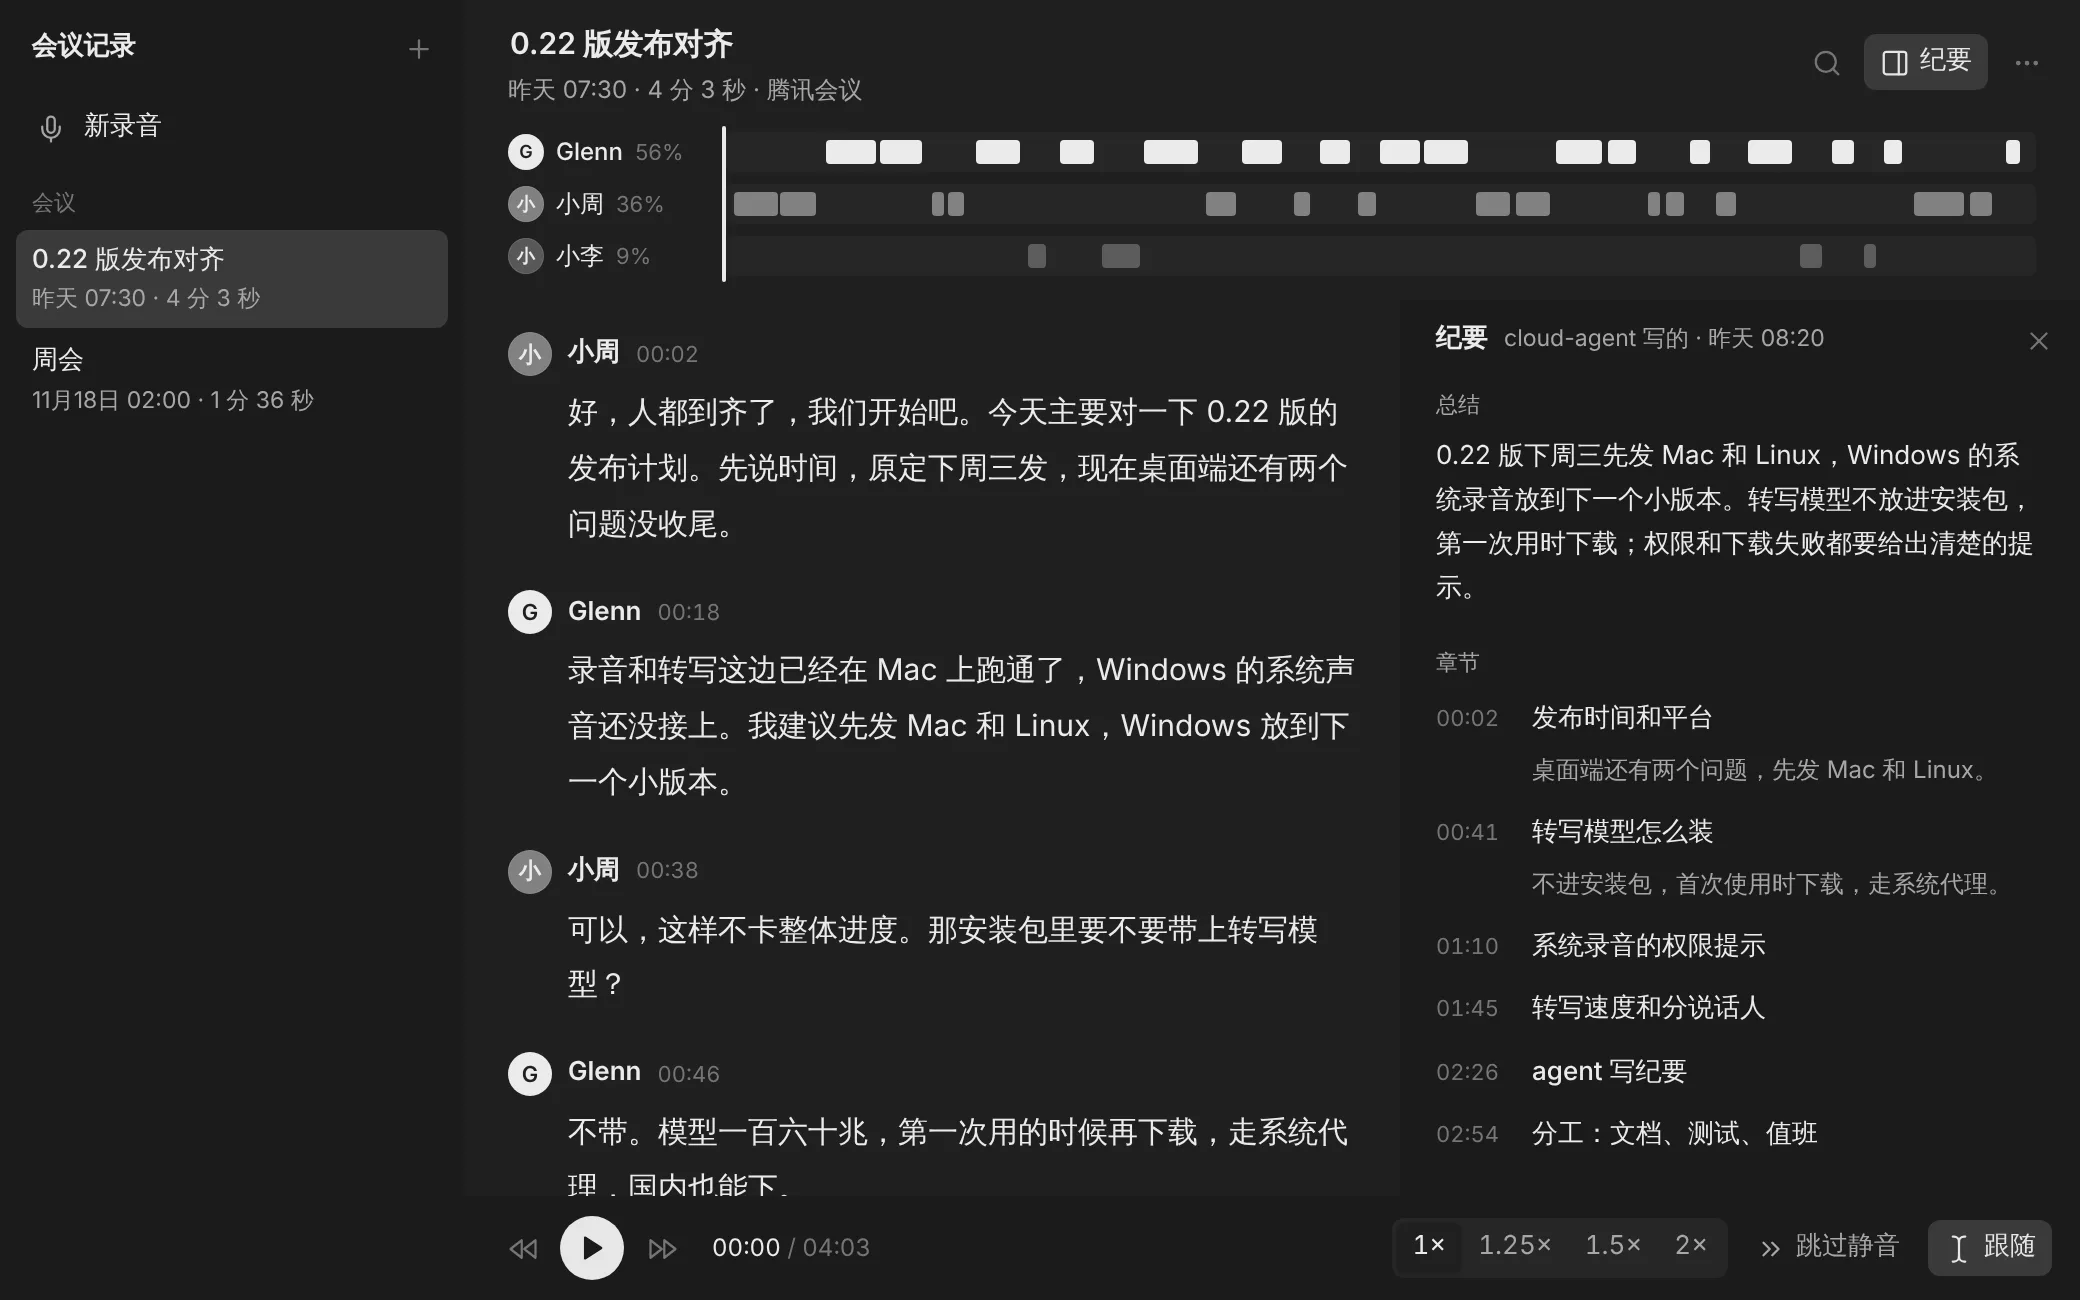
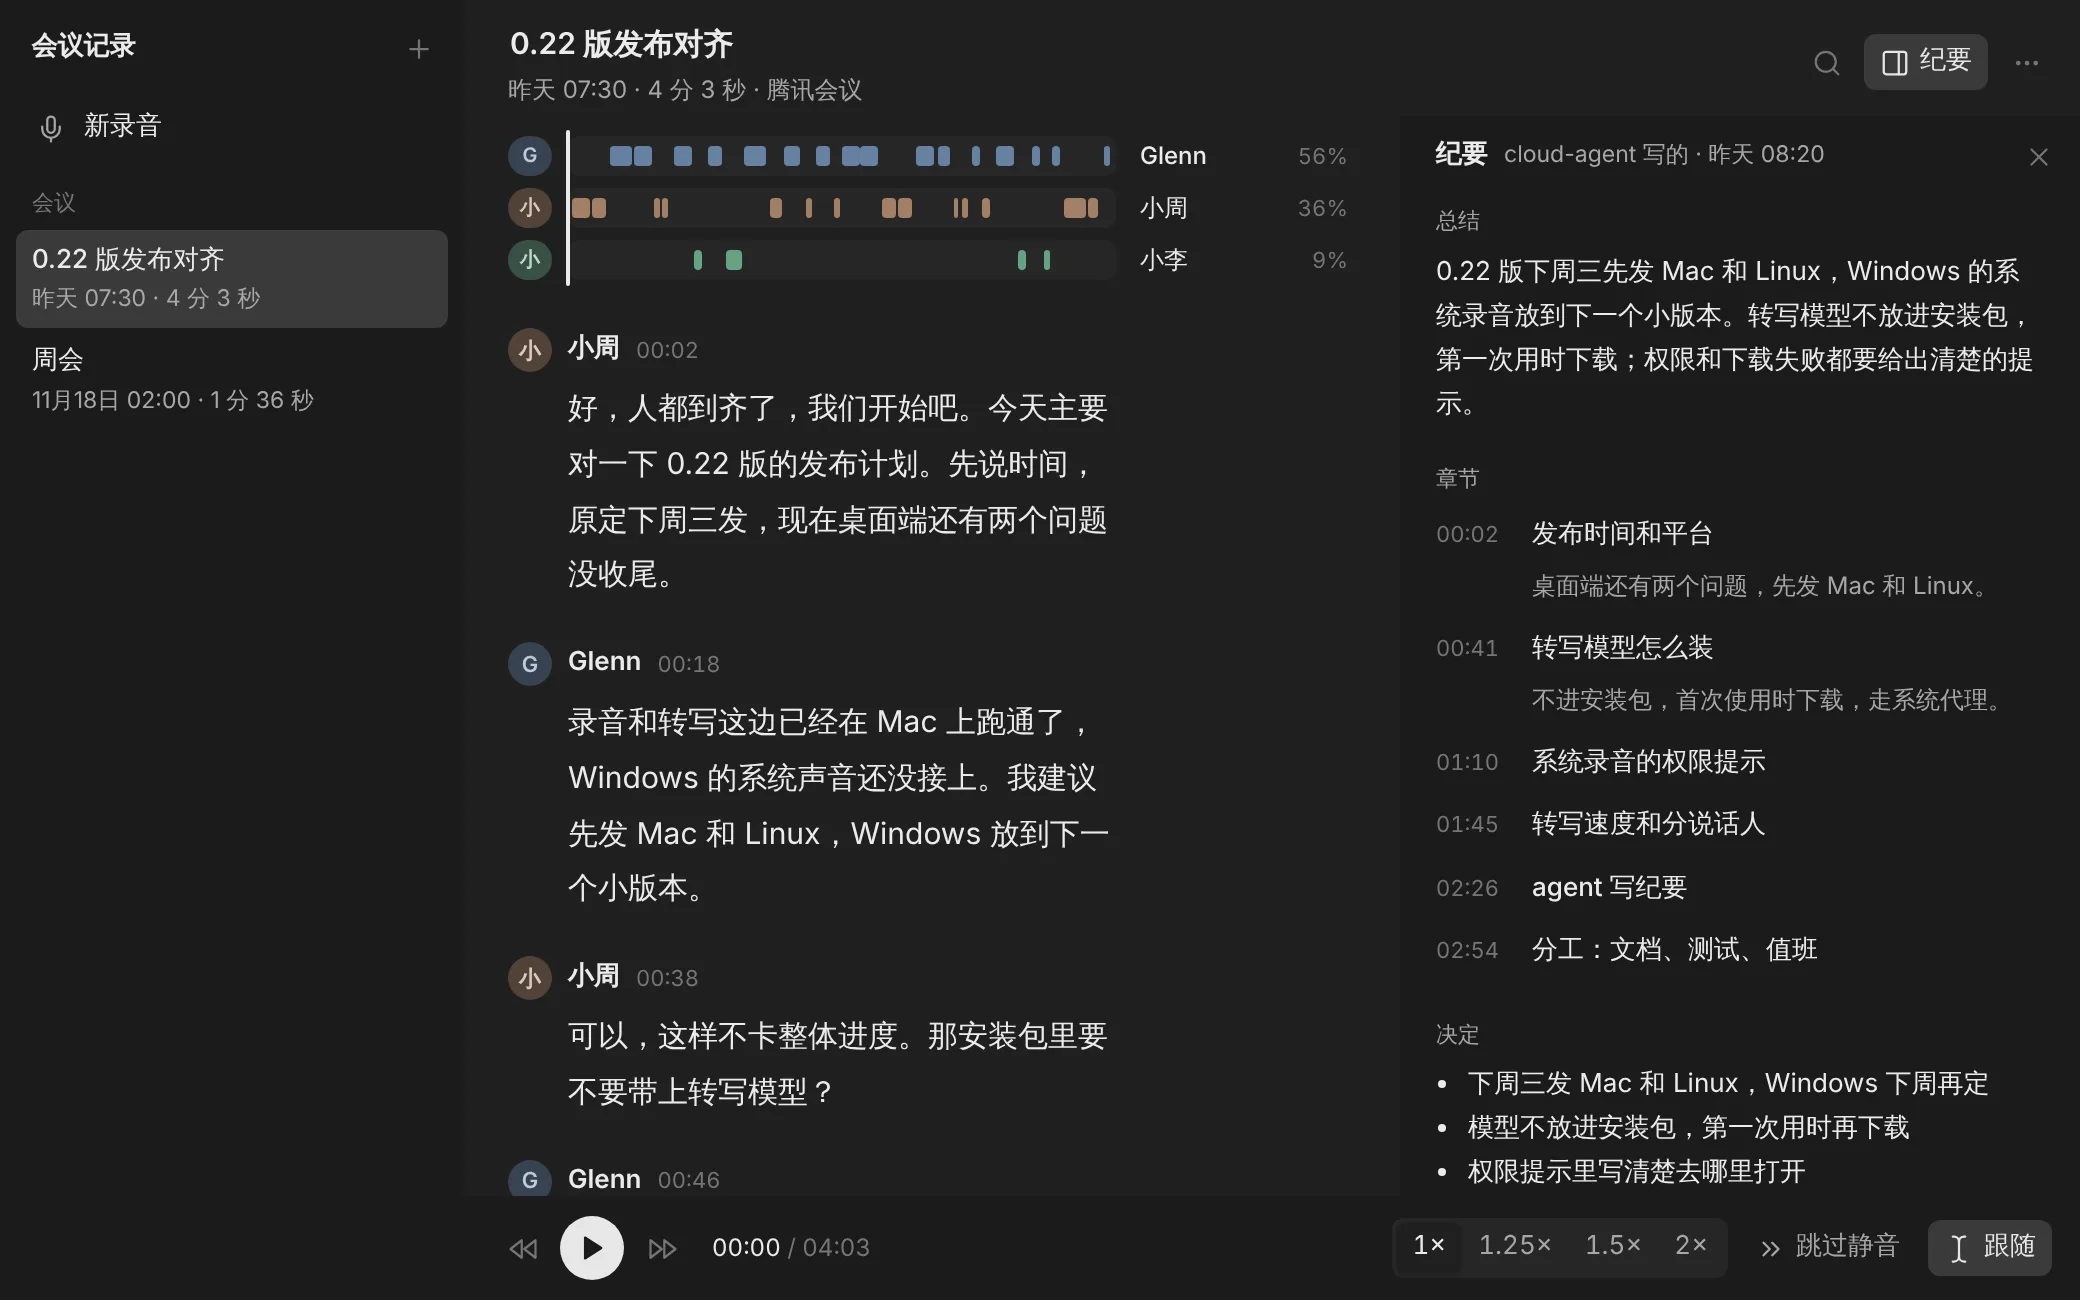
会议记录 1.3.0: a quiet colour for each speaker; the timeline lined up with the text
Speakers are told apart by colour again, but quiet ones (a dusty blue for
the person recording; clay, sage, mauve, sand, teal… for the others),
the same on their face and their lane, a step darker in the dark.

The timeline now sits in the transcript's column and stays on top as it
scrolls: faces in the column of the paragraphs' faces, lanes from where
the text starts to where it ends, names and shares at the end. With the
notes open, both narrow together.

Claude-Session: https://claude.ai/code/session_01CewNoAFbrSSvGsNNKPnVJH

diff --git a/templates/src/meeting/main.tsx b/templates/src/meeting/main.tsx
@@ -21,7 +21,7 @@ import { myco, save } from "../_lib/myco";
 import type { OSAudioSource } from "../_lib/myco";
 import { os, osState, osStateText, useOS, formatBytes } from "../_lib/os";
 import { Popover, rectOf } from "../_lib/ui";
-import { clock, kit, length, meetingList, meetingRank, meetings, num, segments, segmentsOf, shade, speakerKeys, speakerName, speakerOf, when, type Meeting, type Notes, type Track } from "./model";
+import { clock, kit, length, meetingList, meetingRank, meetings, num, segments, segmentsOf, hueOf, speakerKeys, speakerName, speakerOf, when, type Meeting, type Notes, type Track } from "./model";
 import {
   checkSpeech, clearRecordError, installError, installSpeech, installing, isWaiting, lastRecordError, pauseRecording, recording,
   speech, startRecording, stopRecording, stopTranscribing, transcribe, transcribing, useEngine, splitVoices, splitting, askForNotes, canAsk,
@@ -313,13 +313,11 @@ function TitleInput({ id, m, center }: { id: string; m: Meeting; center?: boolea
   );
 }
 
-/** A speaker's face: the first character of the name, in the speaker's grey. */
+/** A speaker's face: the first character of the name, in the speaker's quiet colour. */
 function Face({ m, t, size }: { m: Meeting; t: string; size?: number }) {
   const name = speakerName(m, t);
-  const g = shade(t);
   return (
-    <i className="mt-face" aria-hidden
-      style={{ background: `color-mix(in srgb, var(--fg) ${g}%, var(--bg))`, color: g >= 55 ? "var(--bg)" : "var(--fg)", ...(size ? { width: size, height: size, fontSize: size * 0.5 } : {}) }}>
+    <i className="mt-face" aria-hidden style={{ ["--h" as string]: hueOf(t), ...(size ? { width: size, height: size, fontSize: size * 0.5 } : {}) }}>
       {[...name][0] || "?"}
     </i>
   );
@@ -520,13 +518,15 @@ function MeetingView({ id, host, onDeleted }: { id: string; host: string; onDele
         )}
       </header>
 
-      {segs.length > 0 && (
-        <Timeline m={m} segs={segs} duration={duration} speakers={speakers} talk={talk} totalTalk={totalTalk} now={player ? player.time : -1}
-          hits={hits} hitId={hitId} only={only} setOnly={setOnly} onSeek={player ? (t) => player.seek(t) : undefined} />
-      )}
 
       <div className="mt-content">
       <div className="mt-body" ref={body}>
+        {segs.length > 0 && (
+          <div className="mt-tl-wrap">
+            <Timeline m={m} segs={segs} duration={duration} speakers={speakers} talk={talk} totalTalk={totalTalk} now={player ? player.time : -1}
+              hits={hits} hitId={hitId} only={only} setOnly={setOnly} onSeek={player ? (t) => player.seek(t) : undefined} />
+          </div>
+        )}
         <div className="mt-doc">
           {tx && <TranscribingRow />}
           {!tx && splitting === id && <div className="mt-alert"><Loader2 className="ico spin" /><span className="mt-alert-grow">正在分说话人</span><button type="button" className="btn" onClick={stopTranscribing}>停止</button></div>}
@@ -611,29 +611,32 @@ function Timeline({ m, segs, duration, speakers, talk, totalTalk, now, hits, hit
   const hitSet = new Set(hits);
   return (
     <div className="mt-timeline">
-      <div className="mt-tl-names">
-        {speakers.map((t) => (
-          <button key={t} type="button" className={`mt-tl-name${only === t ? " is-on" : ""}${only && only !== t ? " is-off" : ""}`} onClick={() => setOnly(only === t ? null : t)}
-            title={only === t ? "显示所有人" : `只看${speakerName(m, t)}说的`}>
-            <Face m={m} t={t} size={18} /><b>{speakerName(m, t)}</b><em>{totalTalk ? Math.round(((talk[t] || 0) / totalTalk) * 100) : 0}%</em>
-          </button>
-        ))}
+      <div className="mt-tl-faces">
+        {speakers.map((t) => <Face key={t} m={m} t={t} size={20} />)}
       </div>
       <div ref={lanes} className={`mt-tl-lanes${onSeek ? "" : " is-still"}`}
         onPointerDown={(e) => { if (!onSeek) return; (e.currentTarget as Element).setPointerCapture(e.pointerId); onSeek(at(e.clientX)); }}
         onPointerMove={(e) => { setHover(at(e.clientX)); if (onSeek && e.buttons) onSeek(at(e.clientX)); }}
         onPointerLeave={() => setHover(null)}>
         {speakers.map((t) => (
-          <div key={t} className={`mt-lane${only && only !== t ? " is-off" : ""}`}>
+          <div key={t} className={`mt-lane${only && only !== t ? " is-off" : ""}`} style={{ ["--h" as string]: hueOf(t) }}>
             {segs.filter((s) => speakerOf(s.data) === t).map((s) => {
               const a = pct(num(s.data.start)), b = pct(num(s.data.end));
-              return <i key={s.id} className="mt-lane-seg" style={{ left: `${a}%`, width: `max(2px, ${b - a}%)`, background: `color-mix(in srgb, var(--fg) ${Math.max(30, shade(t))}%, var(--bg))` }} />;
+              return <i key={s.id} className="mt-lane-seg" style={{ left: `${a}%`, width: `max(2px, ${b - a}%)` }} />;
             })}
           </div>
         ))}
         {segs.filter((s) => hitSet.has(s.id)).map((s) => <b key={s.id} className={`mt-tl-hit${s.id === hitId ? " is-on" : ""}`} style={{ left: `${pct(num(s.data.start))}%` }} />)}
         {now >= 0 && <span className="mt-tl-head" style={{ left: `${pct(now)}%` }} />}
         {hover !== null && <span className="mt-tl-tip" style={{ left: `${pct(hover)}%` }}>{clock(hover)}</span>}
+      </div>
+      <div className="mt-tl-names">
+        {speakers.map((t) => (
+          <button key={t} type="button" className={`mt-tl-name${only === t ? " is-on" : ""}${only && only !== t ? " is-off" : ""}`} onClick={() => setOnly(only === t ? null : t)}
+            title={only === t ? "显示所有人" : `只看${speakerName(m, t)}说的`}>
+            <b>{speakerName(m, t)}</b><em>{totalTalk ? Math.round(((talk[t] || 0) / totalTalk) * 100) : 0}%</em>
+          </button>
+        ))}
       </div>
     </div>
   );

diff --git a/templates/src/meeting/meeting.css b/templates/src/meeting/meeting.css
@@ -92,7 +92,8 @@
 
 /* faces: one letter, in grey */
 .mt-face { display: inline-grid; place-items: center; width: 22px; height: 22px; flex: none; border-radius: 50%; font-size: 11px; font-style: normal; font-weight: 600; line-height: 1; }
-.mt-face { box-shadow: inset 0 0 0 0.5px color-mix(in srgb, var(--fg) 12%, transparent); }
+.mt-face { --h: 214; background: hsl(var(--h) 30% 88%); color: hsl(var(--h) 34% 30%); }
+@media (prefers-color-scheme: dark) { .mt-face { background: hsl(var(--h) 18% 27%); color: hsl(var(--h) 34% 80%); } }
 
 /* a meeting */
 .mt-meeting { flex: 1; min-height: 0; display: flex; flex-direction: column; }
@@ -107,18 +108,23 @@
 .mt-find-n { padding: 0 4px; font-size: 11px; color: var(--muted); }
 .mt-find .icon-btn { width: 22px; height: 22px; }
 
-.mt-timeline { display: grid; grid-template-columns: auto 1fr; gap: 6px 14px; align-items: center; padding: 8px 22px 12px; }
-.mt-tl-names { display: flex; flex-direction: column; gap: 6px; }
-.mt-tl-name { display: flex; align-items: center; gap: 6px; height: 20px; padding: 0 6px 0 0; border: 0; border-radius: 6px; background: none; color: var(--fg); font-size: 12px; text-align: left; }
-.mt-tl-name b { font-weight: 500; max-width: 96px; overflow: hidden; text-overflow: ellipsis; white-space: nowrap; }
-.mt-tl-name em { font-style: normal; color: var(--faint); font-size: 11px; }
-.mt-tl-name:hover b { text-decoration: underline; }
+/* who spoke when: faces in the transcript's face column, lanes from where its text starts, names at the end */
+.mt-tl-wrap { position: sticky; top: 0; z-index: 2; background: var(--bg); }
+.mt-timeline { display: flex; gap: 8px; max-width: 800px; padding: 10px 22px 12px; }
+.mt-tl-faces, .mt-tl-names { display: flex; flex-direction: column; gap: 6px; flex: none; }
+.mt-tl-faces .mt-face { width: 22px !important; height: 20px !important; border-radius: 10px; }
+.mt-tl-names { width: 112px; }
+.mt-tl-name { display: flex; align-items: center; gap: 6px; height: 20px; padding: 0 4px; border: 0; border-radius: 6px; background: none; color: var(--fg); font-size: 12px; text-align: left; }
+.mt-tl-name b { flex: 1; min-width: 0; font-weight: 500; overflow: hidden; text-overflow: ellipsis; white-space: nowrap; }
+.mt-tl-name em { font-style: normal; color: var(--faint); font-size: 11px; font-variant-numeric: tabular-nums; }
+.mt-tl-name:hover { background: var(--hover); }
+.mt-tl-name.is-on { background: var(--accent-bg); }
 .mt-tl-name.is-off { opacity: 0.45; }
-.mt-tl-lanes { position: relative; display: flex; flex-direction: column; gap: 6px; padding: 0; touch-action: none; }
-.mt-lane { position: relative; height: 20px; border-radius: 4px; background: var(--bg2); }
+.mt-tl-lanes { position: relative; flex: 1; min-width: 0; display: flex; flex-direction: column; gap: 6px; touch-action: none; }
+.mt-lane { --h: 214; position: relative; height: 20px; border-radius: 5px; background: var(--bg2); }
 .mt-lane.is-off { opacity: 0.35; }
-.mt-lane-seg { position: absolute; top: 4px; bottom: 4px; border-radius: 2px; }
-
+.mt-lane-seg { position: absolute; top: 5px; bottom: 5px; border-radius: 2px; background: hsl(var(--h) 28% 62%); }
+@media (prefers-color-scheme: dark) { .mt-lane-seg { background: hsl(var(--h) 24% 52%); } }
 .mt-tl-hit { position: absolute; top: -4px; width: 2px; height: 4px; margin-left: -1px; border-radius: 1px; background: var(--fg); opacity: 0.5; }
 .mt-tl-hit.is-on { opacity: 1; height: 5px; top: -5px; }
 .mt-tl-head { position: absolute; top: -3px; bottom: -3px; width: 2px; margin-left: -1px; border-radius: 1px; background: var(--fg); pointer-events: none; }
@@ -127,7 +133,7 @@
 
 .mt-content { flex: 1; min-height: 0; display: flex; }
 .mt-body { flex: 1; min-width: 0; min-height: 0; overflow-y: auto; }
-.mt-doc { max-width: 800px; padding: 6px 22px 40px; display: flex; flex-direction: column; gap: 2px; }
+.mt-doc { max-width: 800px; padding: 2px 22px 40px; display: flex; flex-direction: column; gap: 2px; }
 .mt-doc > .mt-alert { margin-bottom: 12px; }
 .mt-para { padding: 10px 0 8px; }
 .mt-para-head { display: flex; align-items: center; gap: 8px; margin-bottom: 4px; }
@@ -136,7 +142,7 @@
 .mt-name-edit { width: 120px; height: 22px; padding: 0 6px; border: 1px solid var(--line); border-radius: 6px; background: var(--bg); outline: none; font-size: 13px; font-weight: 600; }
 .mt-para-time { padding: 0; border: 0; background: none; font-size: 11px; color: var(--faint); font-variant-numeric: tabular-nums; }
 .mt-para-time:not(:disabled):hover { color: var(--fg); text-decoration: underline; }
-.mt-para-text { margin: 0 0 0 30px; font-size: 15px; line-height: 1.85; color: var(--fg); }
+.mt-para-text { margin: 0 120px 0 30px; font-size: 15px; line-height: 1.85; color: var(--fg); }
 .mt-s { border-radius: 4px; padding: 2px 1px; margin: 0 -1px; -webkit-box-decoration-break: clone; box-decoration-break: clone; }
 .mt-s:hover { background: var(--hover); }
 .mt-s.is-on { background: var(--now); box-shadow: 0 1.5px 0 var(--fg); }
@@ -169,7 +175,8 @@
   .mt-clock { font-size: 48px; }
   .mt-player .tool { padding: 0 6px; font-size: 0; gap: 0; }
   .mt-doc { padding: 10px 16px 32px; }
-  .mt-para-text { margin-left: 0; }
+  .mt-para-text { margin: 0; }
+  .mt-tl-names { width: 72px; }
 }
 
 .mt-menu-label { padding: 6px 10px 4px; font-size: 11px; color: var(--muted); }

diff --git a/templates/src/meeting/model.ts b/templates/src/meeting/model.ts
@@ -68,13 +68,14 @@ export function speakerKeys(list: Segment[]) {
   return [...keys].sort((a, b) => rank(a) - rank(b) || a.localeCompare(b, undefined, { numeric: true }));
 }
 
-/** A speaker's grey (me the darkest; the others lighter, each its own). */
-export function shade(key: string) {
-  if (key === "me") return 100;
-  if (key === "them") return 48;
-  if (key.startsWith("me:")) return [92, 84, 96, 88][(Number(key.slice(3)) - 1) % 4];
+/** A speaker's hue: quiet colours (a dusty blue for me, clay, sage, mauve,
+ *  sand, teal, rose, olive for the others), always the same for a speaker. */
+export function hueOf(key: string) {
+  if (key === "me") return 214;
+  if (key === "them") return 24;
+  if (key.startsWith("me:")) return [338, 168, 58][(Number(key.slice(3)) - 1) % 3];
   const n = Number(key.slice(5)) || 0;
-  return [48, 28, 66, 38, 78, 20, 58, 86][n % 8];
+  return [24, 148, 276, 42, 188, 352, 92, 250][n % 8];
 }
 
 /** 12:05 or 1:02:05. */
